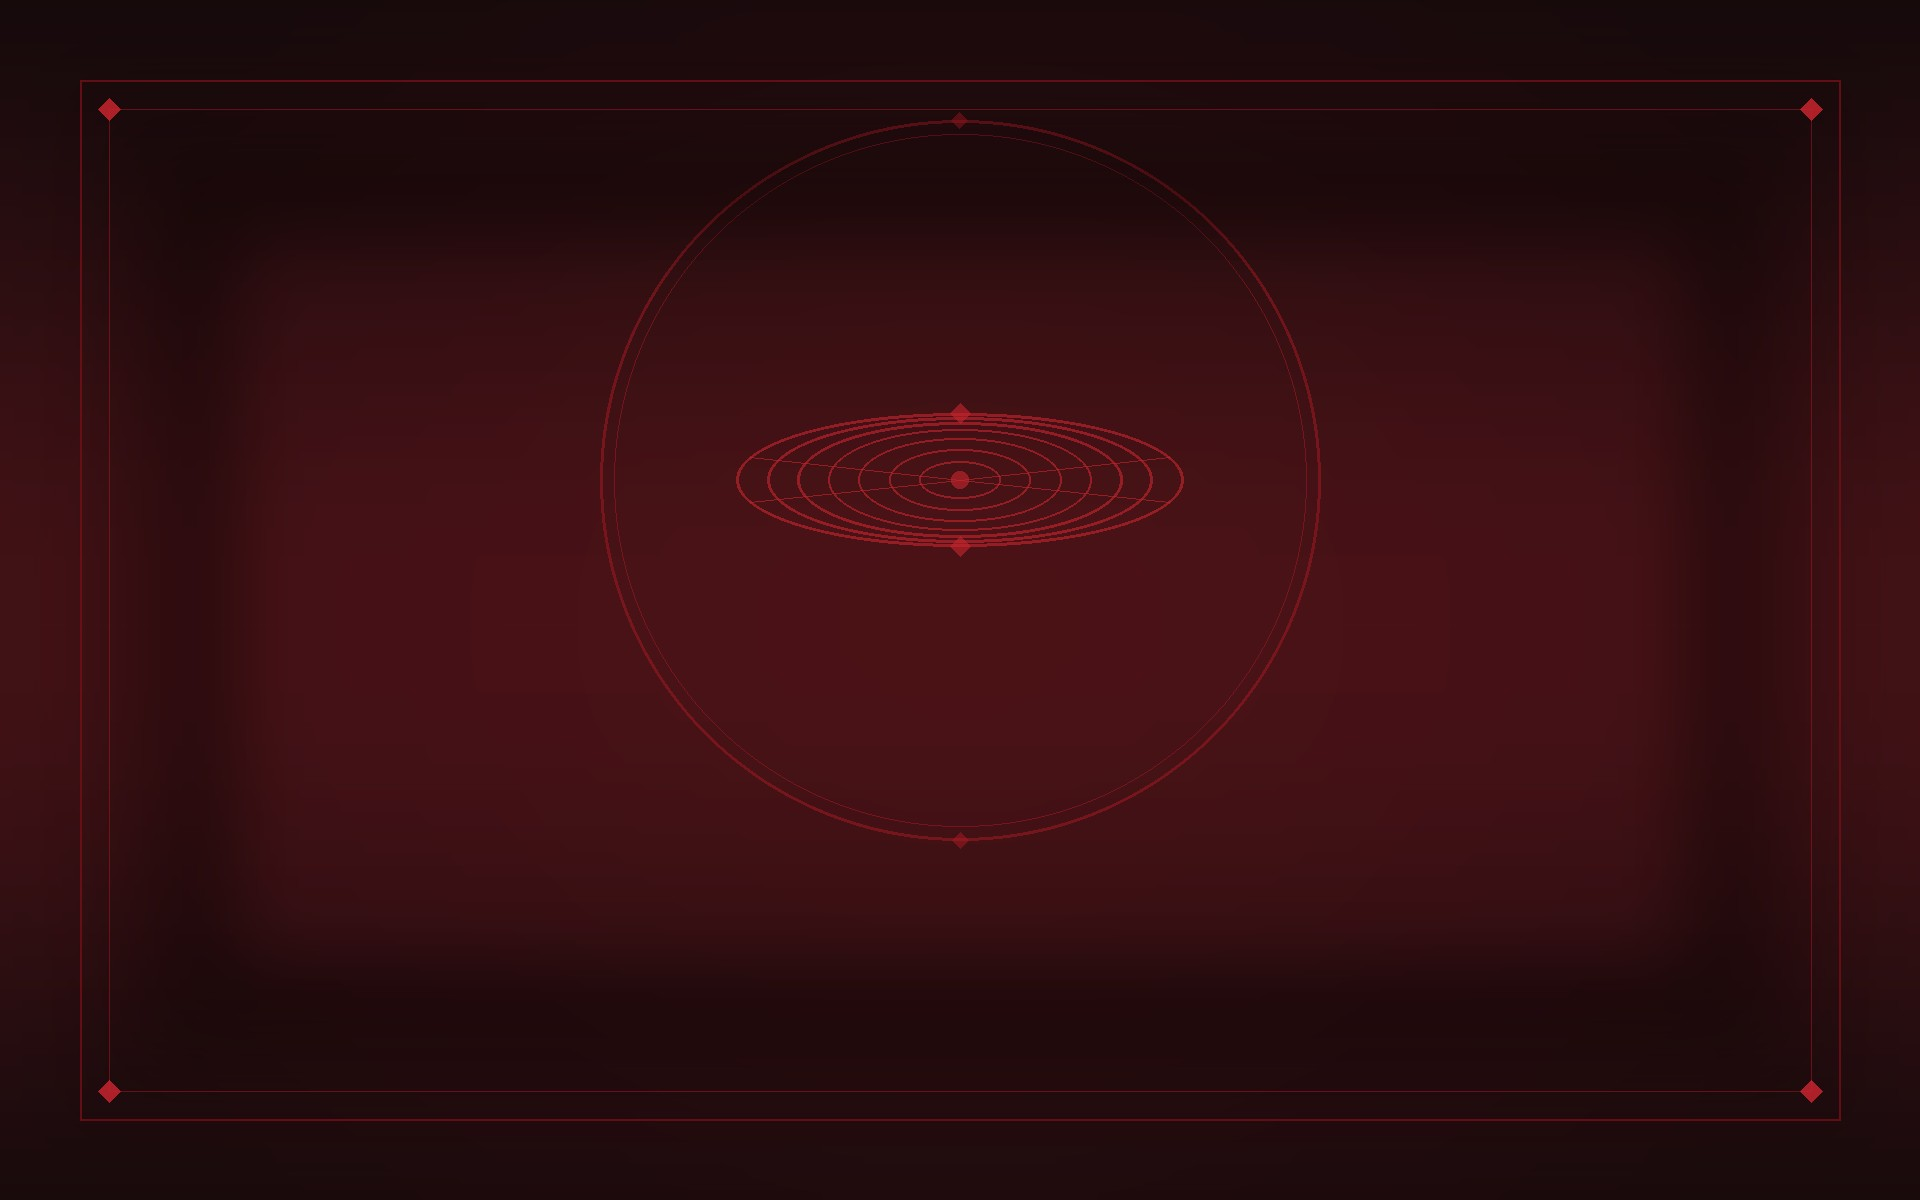
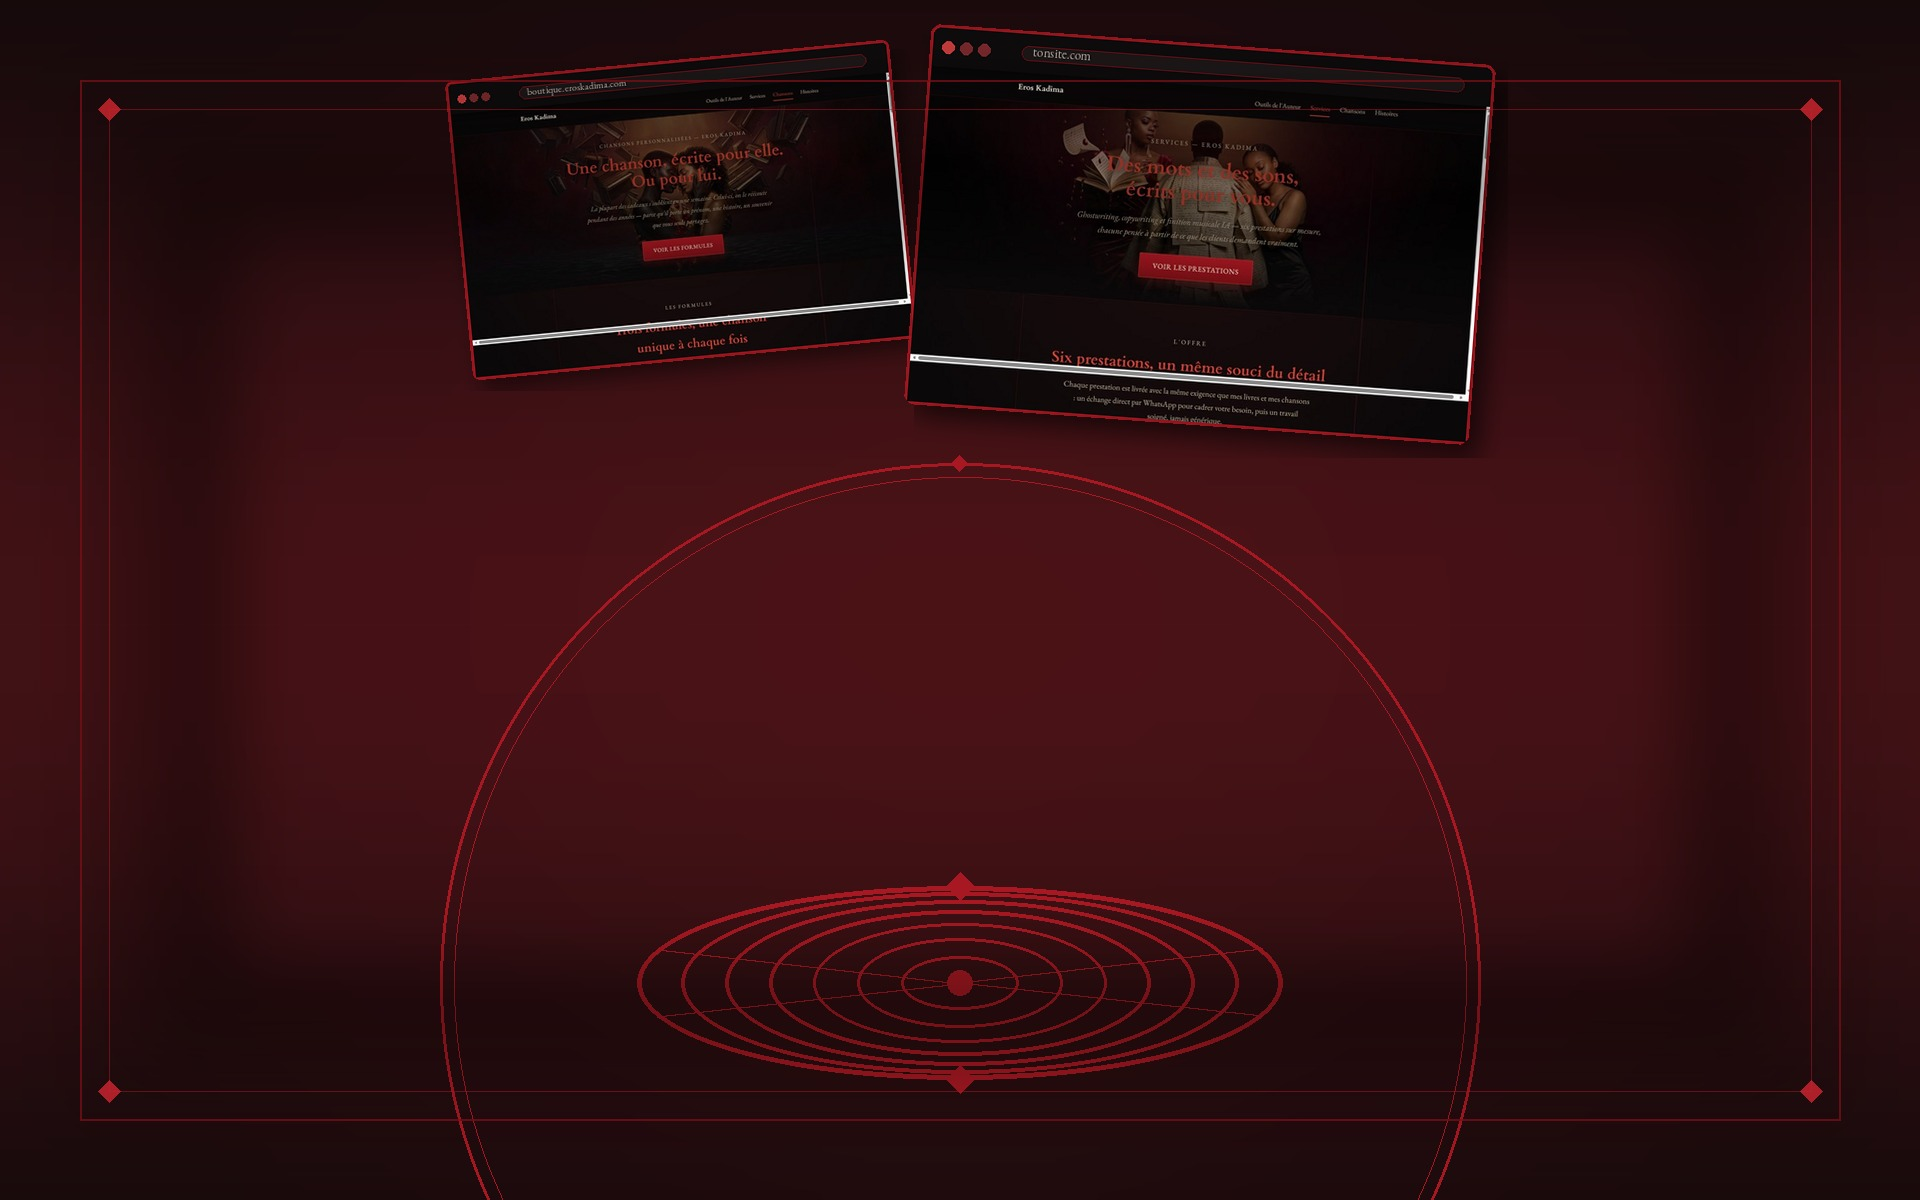
Add files via upload

diff --git a/tunnel/index.html b/tunnel/index.html
@@ -164,7 +164,7 @@ footer { text-align: center; padding: 40px 0 60px; color: var(--cream-dim); font
 .tier-card { background: var(--surface); border: 1px solid var(--line); padding: 26px 22px; display: flex; flex-direction: column; text-align: center; position: relative; }
 .tier-card.featured { border-color: var(--bright-red); box-shadow: 0 0 0 1px var(--bright-red), 0 16px 34px rgba(0,0,0,.4); }
 .tier-badge { position: absolute; top: -13px; left: 50%; transform: translateX(-50%); background: var(--bright-red); color: var(--ink); font-size: 11px; letter-spacing: .1em; text-transform: uppercase; padding: 4px 12px; border-radius: 999px; white-space: nowrap; }
-.tier-img { width: 84px; height: 84px; object-fit: cover; border-radius: 50%; border: 1px solid var(--deep-red); margin: 4px auto 14px; display: block; }
+.tier-img { width: 84px; height: 84px; object-fit: contain; margin: 4px auto 14px; display: block; }
 .tier-name { font-family: 'Cardo', serif; font-weight: 700; color: var(--bright-red); font-size: 19px; margin-bottom: 4px; }
 .tier-price { font-family: 'Cardo', serif; font-weight: 700; font-size: 26px; color: var(--cream); margin-bottom: 16px; }
 .tier-bullets { list-style: none; margin: 0 0 20px; padding: 0; display: flex; flex-direction: column; gap: 8px; flex-grow: 1; text-align: left; }
@@ -177,7 +177,7 @@ footer { text-align: center; padding: 40px 0 60px; color: var(--cream-dim); font
     linear-gradient(180deg, rgba(10,8,9,.60) 0%, rgba(10,8,9,.30) 35%, rgba(10,8,9,.70) 70%, var(--ink) 100%),
     radial-gradient(ellipse 90% 65% at 50% 12%, rgba(117,15,22,.30), transparent 60%),
     url('/images/hero-tunnel.jpg');
-  background-size: cover; background-position: center 40%; background-repeat: no-repeat;
+  background-size: cover; background-position: center 12%; background-repeat: no-repeat;
   background-color: var(--surface);
 }
 .tunnel-steps { display: flex; flex-direction: column; gap: 28px; max-width: 600px; margin: 0 auto; }
@@ -235,7 +235,7 @@ footer { text-align: center; padding: 40px 0 60px; color: var(--cream-dim); font
     <div class="tier-grid">
       <div class="tier-card">
         
-        <img class="tier-img" src="/images/tunnel/vignette-le-guide-sm.jpg" alt="Le Guide" loading="lazy">
+        <img class="tier-img" src="/images/tunnel/tier-icon-le-guide.png" alt="Le Guide" loading="lazy">
         <div class="tier-name">Le Guide</div>
         <div class="tier-price">15 000 FCFA</div>
         <ul class="tier-bullets"><li>Le guide complet, étape par étape (GitHub, Vercel, domaine, boutique et paiement)</li><li>Les prompts IA prêts à l'emploi, backend et frontend</li><li>Tu construis toi-même, à ton rythme</li><li>Accès à vie, aucun abonnement</li></ul>
@@ -243,7 +243,7 @@ footer { text-align: center; padding: 40px 0 60px; color: var(--cream-dim); font
       </div>
       <div class="tier-card featured">
         <div class="tier-badge">Le plus équilibré</div>
-        <img class="tier-img" src="/images/tunnel/vignette-accompagnement-sm.jpg" alt="Accompagnement Guidé" loading="lazy">
+        <img class="tier-img" src="/images/tunnel/tier-icon-accompagnement.png" alt="Accompagnement Guidé" loading="lazy">
         <div class="tier-name">Accompagnement Guidé</div>
         <div class="tier-price">60 000 FCFA</div>
         <ul class="tier-bullets"><li>1 à 2 sessions en visio, avec moi à tes côtés</li><li>Le guide complet + le formulaire de cadrage inclus</li><li>Tu gardes la main sur ton tunnel</li><li>Questions illimitées par WhatsApp pendant l'accompagnement</li></ul>
@@ -251,7 +251,7 @@ footer { text-align: center; padding: 40px 0 60px; color: var(--cream-dim); font
       </div>
       <div class="tier-card">
         
-        <img class="tier-img" src="/images/tunnel/vignette-cle-en-main-sm.jpg" alt="Tunnel Clé en Main" loading="lazy">
+        <img class="tier-img" src="/images/tunnel/tier-icon-cle-en-main.png" alt="Tunnel Clé en Main" loading="lazy">
         <div class="tier-name">Tunnel Clé en Main</div>
         <div class="tier-price">150 000 FCFA</div>
         <ul class="tier-bullets"><li>Ton tunnel construit de A à Z, par nous</li><li>Site, boutique, paiement et domaine configurés</li><li>Formulaire de cadrage pour démarrer du bon pied</li><li>Formation rapide + support après la mise en ligne</li></ul>
